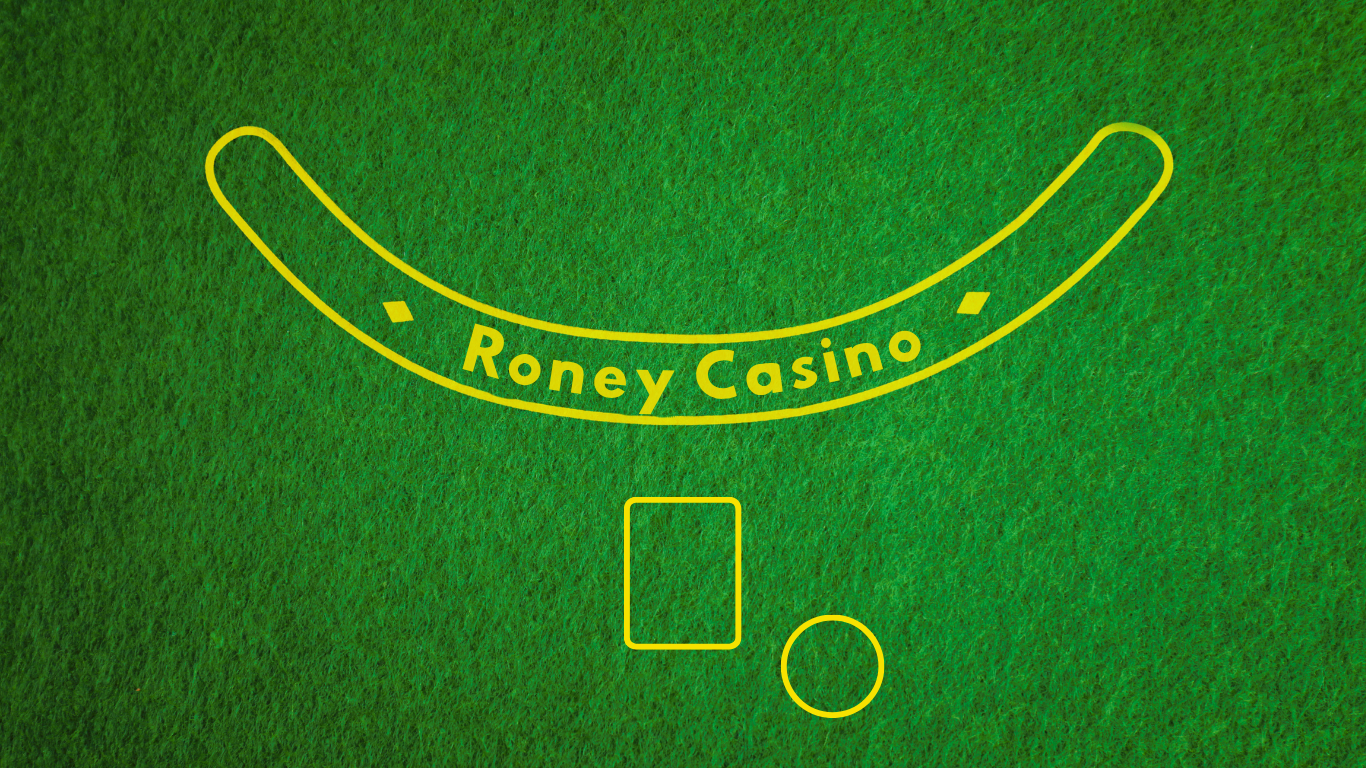
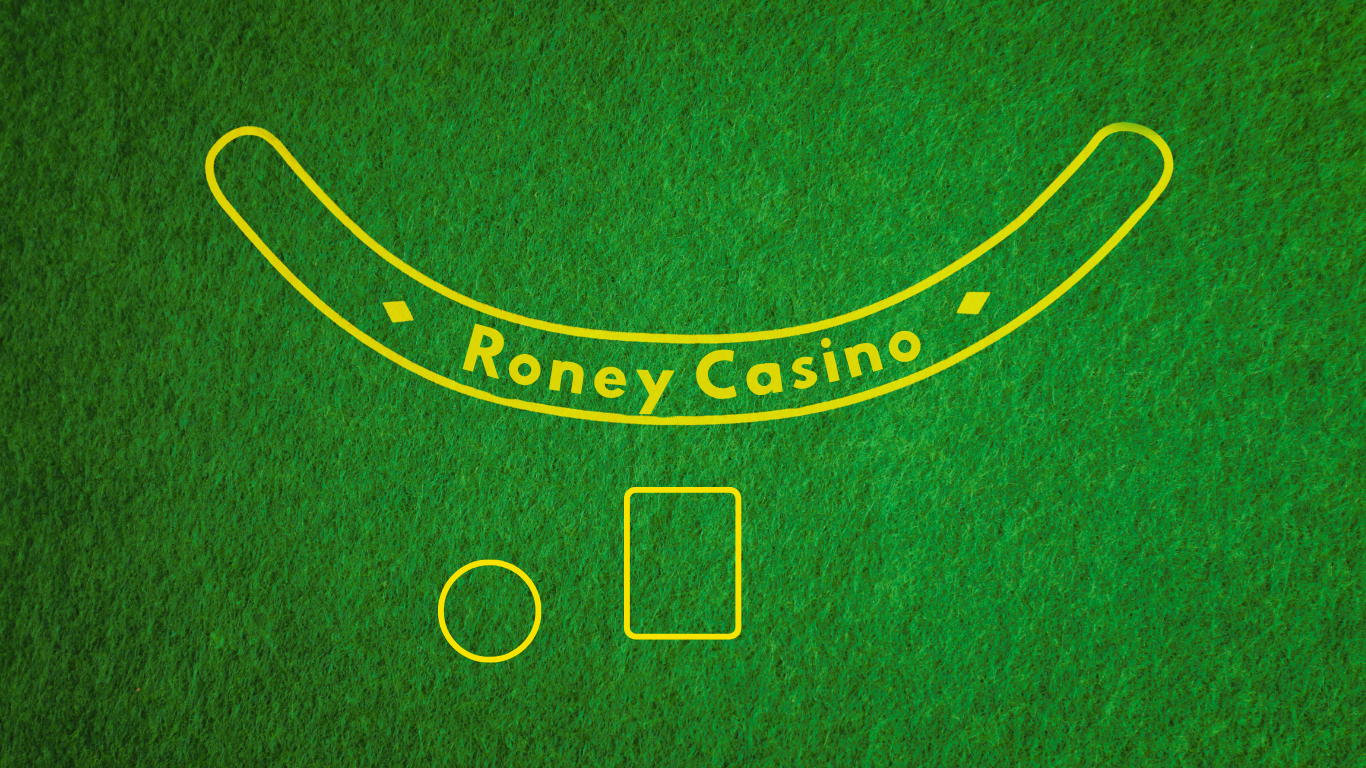
Working BJ with minimal ui

diff --git a/blackjack_ui.py b/blackjack_ui.py
@@ -1,6 +1,10 @@
 import pygame
+import os
 from blackjack import BlackjackGame
 from buttons import Button
+from buttons import CircleButton
+from card_cosmetics import CardCosmetics
+from settings import *
 
 class BlackjackUI:
     def __init__(self, screen):
@@ -19,21 +23,54 @@ class BlackjackUI:
         # Background
         self.background = pygame.image.load("assets/images/blackjack_table.png").convert()
 
+        # --- Load card faces ---
+        self.card_images = {}
+
+        face_folder = "assets/images/cards/faces"
+        CARD_HEIGHT = 200  # adjust later if needed
+
+        def scale_preserve_aspect(img, target_height):
+            ratio = img.get_width() / img.get_height()
+            target_width = int(target_height * ratio)
+            return pygame.transform.smoothscale(img, (target_width, target_height))
+
+        for filename in os.listdir(face_folder):
+            if filename.endswith(".png"):
+                key = filename.replace(".png", "")  # e.g. "AH"
+                path = os.path.join(face_folder, filename)
+
+                img = pygame.image.load(path).convert_alpha()
+                img = scale_preserve_aspect(img, CARD_HEIGHT)
+
+                self.card_images[key] = img
+
         # Layout positions
-        self.dealer_pos = (screen.get_width() // 2 - 150, 40)
-        self.deck_pos = (screen.get_width() // 2 + 200, 40)
-        self.player_pos = (screen.get_width() // 2 - 150, screen.get_height() - 220)
+        self.dealer_pos = (screen.get_width() // 2 - 90, 60)
+        self.deck_pos = (screen.get_width() // 2 + 230, 60)
+        self.player_pos = (screen.get_width() // 2 - 90, screen.get_height() - 200)
         self.money_pos = (40, screen.get_height() - 60)
 
         # Action buttons
-        self.buttons = {
-            "hit": pygame.Rect(screen.get_width()//2 - 200, screen.get_height() - 100, 120, 50),
-            "stand": pygame.Rect(screen.get_width()//2 - 60, screen.get_height() - 100, 120, 50),
-            "double": pygame.Rect(screen.get_width()//2 + 80, screen.get_height() - 100, 120, 50),
-        }
+        self.hit_button = Button(200, screen.get_height() - 230, 150, 60, "HIT")
+        self.stand_button = Button(screen.get_width() - 350, screen.get_height() - 230, 150, 60, "STAND")
+        self.double_button = CircleButton(screen.get_width() // 2 - 193, screen.get_height() - 77, 40, "x2")
+
 
         self.message = ""
         self.show_dealer_hole = False
+        self.cosmetics = CardCosmetics()
+        
+        # Load card faces
+        self.card_images = {}
+        face_folder = "assets/images/cards/faces"
+
+        for filename in os.listdir(face_folder):
+            if filename.endswith(".png"):
+                key = filename.replace(".png", "")  # e.g. "AH"
+                img = pygame.image.load(os.path.join(face_folder, filename)).convert_alpha()
+                img = pygame.transform.scale(img, (105, 150))
+                self.card_images[key] = img
+
 
     # --------------------------------------------------
 
@@ -69,9 +106,11 @@ class BlackjackUI:
 
         # Normal gameplay
         self.draw_hands()
-        self.draw_buttons()
+        self.hit_button.draw(self.screen)
+        self.stand_button.draw(self.screen)
+        self.double_button.draw(self.screen)
         self.draw_money()
-        self.draw_message()
+        self.draw_player_total()
 
         # Result overlay
         self.draw_result_overlay()
@@ -116,14 +155,14 @@ class BlackjackUI:
         x, y = self.dealer_pos
         for i, card in enumerate(self.game.dealer.cards):
             if i == 1 and not self.show_dealer_hole:
-                self.draw_card_back(x + i*80, y)
+                self.draw_card_back(x + i*40, y)
             else:
                 self.draw_card(card, x + i*80, y)
 
         # Player
         x, y = self.player_pos
         for i, card in enumerate(self.game.player.cards):
-            self.draw_card(card, x + i*80, y)
+            self.draw_card(card, x + i*40, y)
 
         # Deck
         self.draw_card_back(*self.deck_pos)
@@ -131,16 +170,22 @@ class BlackjackUI:
     # --------------------------------------------------
 
     def draw_card(self, card, x, y):
-        pygame.draw.rect(self.screen, (255, 255, 255), (x, y, 70, 100))
-        pygame.draw.rect(self.screen, (0, 0, 0), (x, y, 70, 100), 2)
+        key = f"{card.rank}{card.suit}"  # ex "AH"
+        img = self.card_images.get(key)
 
-        font = pygame.font.SysFont(None, 32)
-        text = font.render(f"{card.rank}{card.suit}", True, (0, 0, 0))
-        self.screen.blit(text, (x + 10, y + 10))
+        if img:
+            self.screen.blit(img, (x, y))
+        else:
+            # fallback if missing
+            pygame.draw.rect(self.screen, (255, 255, 255), (x, y, 70, 100))
+            pygame.draw.rect(self.screen, (0, 0, 0), (x, y, 70, 100), 2)
+
 
     def draw_card_back(self, x, y):
-        pygame.draw.rect(self.screen, (0, 0, 150), (x, y, 70, 100))
-        pygame.draw.rect(self.screen, (255, 255, 255), (x, y, 70, 100), 2)
+        img = self.cosmetics.get_card_back()
+        self.screen.blit(img, (x, y))
+
+
 
     # --------------------------------------------------
 
@@ -168,13 +213,19 @@ class BlackjackUI:
         self.screen.blit(money_text, self.money_pos)
 
     # --------------------------------------------------
+        
+    def draw_player_total(self):
+        total = self.game.player.total()
 
-    def draw_message(self):
-        if not self.message:
-            return
-        font = pygame.font.SysFont(None, 48)
-        text = font.render(self.message, True, (255, 255, 255))
-        self.screen.blit(text, (self.screen.get_width()//2 - text.get_width()//2, 20))
+        font = pygame.font.Font(BUTTON_FONT, 25)
+        text = font.render(f"Total: {total}", True, (255, 255, 255))
+
+        # Center it under the player's hand
+        x = self.player_pos[0] + 20  # adjust if needed
+        y = self.player_pos[1] + 158
+        # just below the cards
+
+        self.screen.blit(text, (x, y))
 
     # --------------------------------------------------
 
@@ -210,13 +261,23 @@ class BlackjackUI:
         if event.type == pygame.MOUSEBUTTONDOWN:
             mx, my = event.pos
 
-            if self.buttons["hit"].collidepoint(mx, my):
-                self.message = self.game.player_hit()
+            if self.hit_button.is_clicked():
+                self.hit()
 
-            elif self.buttons["stand"].collidepoint(mx, my):
-                self.show_dealer_hole = True
-                self.message = self.game.player_stand()
+            if self.stand_button.is_clicked():
+                self.stand()
 
-            elif self.buttons["double"].collidepoint(mx, my):
-                self.show_dealer_hole = True
-                self.message = self.game.player_double()
+            if self.double_button.is_clicked():
+                self.double_down()
+    def hit(self):
+        self.message = self.game.player_hit()
+
+    def stand(self):
+        self.show_dealer_hole = True
+        self.message = self.game.player_stand()
+
+    def double_down(self):
+        self.show_dealer_hole = True
+        self.message = self.game.player_double()
+
+

diff --git a/card_cosmetics.py b/card_cosmetics.py
@@ -1,0 +1,104 @@
+import pygame
+import os
+
+class CardCosmetics:
+    """
+    Handles:
+    - Loading all card back images
+    - Tracking owned cosmetics
+    - Tracking equipped cosmetic
+    - Providing the correct image to the renderer
+    """
+
+    def __init__(self, card_width=105, card_height=150):
+        self.card_width = card_width
+        self.card_height = card_height
+
+        # --- Cosmetic State ---
+        self.equipped_back = "default"       # ID of currently equipped card back
+        self.owned_backs = {"default"}       # Set of owned card backs
+
+        # --- Loaded Images ---
+        self.card_backs = {}                 # id -> pygame.Surface
+
+        # Load all available cosmetics
+        self.load_all_card_backs()
+
+    # -------------------------------------------------------------
+
+    def load_all_card_backs(self):
+        """
+        Loads all card back images from assets/images/card_backs/
+        Filenames must follow: <id>.png
+        Example: default.png, gold.png, neon.png
+        """
+
+        folder = "assets/images/cards/card_backs"
+
+        if not os.path.exists(folder):
+            print(f"[CardCosmetics] Folder not found: {folder}")
+            return
+
+        for filename in os.listdir(folder):
+            if not filename.lower().endswith(".png"):
+                continue
+
+            cosmetic_id = filename[:-4]  # remove .png
+            path = os.path.join(folder, filename)
+
+            try:
+                img = pygame.image.load(path).convert_alpha()
+                img = pygame.transform.scale(img, (self.card_width, self.card_height))
+                self.card_backs[cosmetic_id] = img
+            except Exception as e:
+                print(f"[CardCosmetics] Failed to load {filename}: {e}")
+
+        # Ensure default exists
+        if "default" not in self.card_backs:
+            # fallback: simple colored rectangle
+            fallback = pygame.Surface((self.card_width, self.card_height))
+            fallback.fill((0, 0, 150))
+            pygame.draw.rect(fallback, (255, 255, 255), fallback.get_rect(), 2)
+            self.card_backs["default"] = fallback
+
+    # -------------------------------------------------------------
+
+    def get_card_back(self):
+        """
+        Returns the pygame.Surface for the currently equipped card back.
+        Falls back to default if missing.
+        """
+        return self.card_backs.get(self.equipped_back, self.card_backs["default"])
+
+    # -------------------------------------------------------------
+
+    def equip(self, cosmetic_id):
+        """
+        Equips a card back if the player owns it.
+        """
+        if cosmetic_id in self.owned_backs:
+            self.equipped_back = cosmetic_id
+            return True
+        return False
+
+    # -------------------------------------------------------------
+
+    def unlock(self, cosmetic_id):
+        """
+        Adds a new card back to the player's owned cosmetics.
+        """
+        self.owned_backs.add(cosmetic_id)
+
+    # -------------------------------------------------------------
+
+    def list_owned(self):
+        return list(self.owned_backs)
+
+    def list_available(self):
+        return list(self.card_backs.keys())
+
+    def scale_preserve_aspect(img, target_height):
+        ratio = img.get_width() / img.get_height()
+        target_width = int(target_height * ratio)
+        return pygame.transform.smoothscale(img, (target_width, target_height))
+

diff --git a/buttons.py b/buttons.py
@@ -119,3 +119,38 @@ class ImageButton:
     def is_clicked(self):
         return self.rect.collidepoint(pygame.mouse.get_pos())
 
+class CircleButton:
+    def __init__(self, x, y, radius, text="x2"):
+        self.x = x
+        self.y = y
+        self.radius = radius
+        self.text = text
+
+        self.base_color = (200, 0, 0)
+        self.hover_color = (255, 50, 50)
+        self.border_color = (0, 0, 0)
+        self.text_color = (255, 255, 255)
+
+        self.font = pygame.font.SysFont(None, 40)
+
+    def draw(self, surface):
+        mouse = pygame.mouse.get_pos()
+        hovered = (mouse[0] - self.x)**2 + (mouse[1] - self.y)**2 <= self.radius**2
+
+        color = self.hover_color if hovered else self.base_color
+
+        pygame.draw.circle(surface, color, (self.x, self.y), self.radius)
+        pygame.draw.circle(surface, self.border_color, (self.x, self.y), self.radius, width=3)
+
+        text_surf = self.font.render(self.text, True, self.text_color)
+        text_rect = text_surf.get_rect(center=(self.x, self.y))
+        surface.blit(text_surf, text_rect)
+
+    def is_clicked(self):
+        mouse = pygame.mouse.get_pos()
+        pressed = pygame.mouse.get_pressed()[0]
+
+        dx = mouse[0] - self.x
+        dy = mouse[1] - self.y
+
+        return pressed and (dx*dx + dy*dy <= self.radius*self.radius)

diff --git a/game.py b/game.py
@@ -162,6 +162,11 @@ class Game:
             if event.type == pygame.KEYDOWN:
                 if event.key == pygame.K_ESCAPE:
                     self.running = False
+                    
+            # DEV FUNCTION
+            if event.type == pygame.KEYDOWN:
+                if event.key == pygame.K_j:
+                    self.state = "BLACKJACK"
 
 
     def update(self):

diff --git a/settings.py b/settings.py
@@ -8,6 +8,4 @@ GREEN = (0, 120, 0)
 
 TITLE_FONT = "assets/fonts/AnandaBlackPersonalUseRegular-rg9Rx.ttf"
 RULE_FONT = "assets/fonts/OpenSans-VariableFont_wdth,wght.ttf"
-
-
-
+BUTTON_FONT = "assets/fonts/PlayfairDisplaySC-Black.ttf"